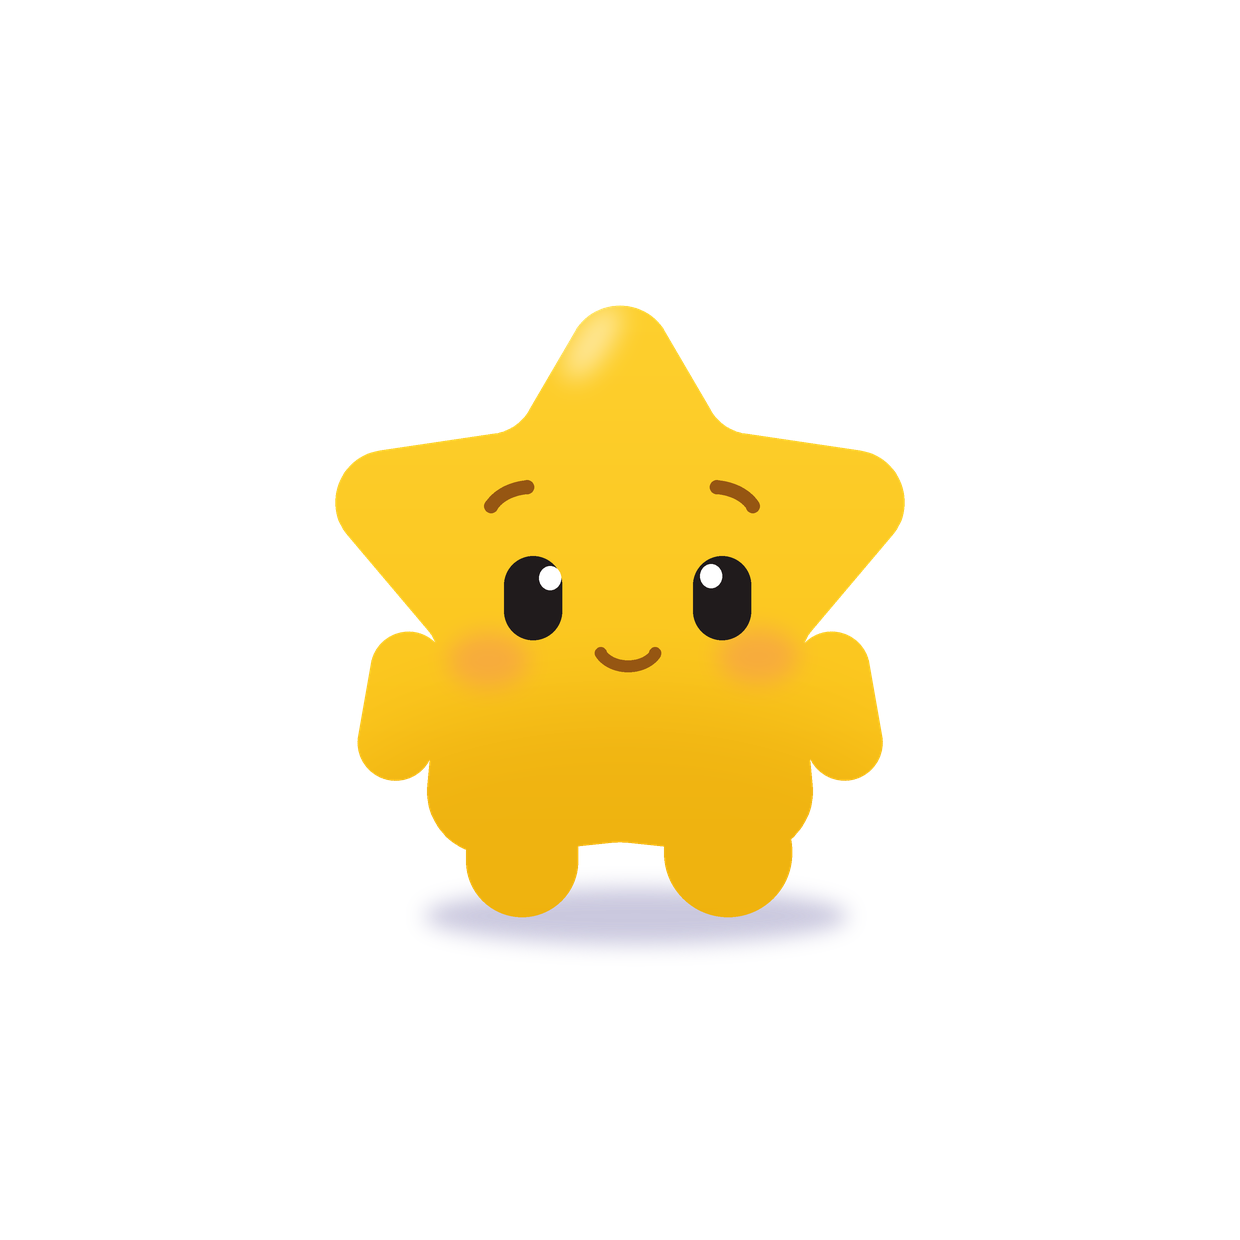
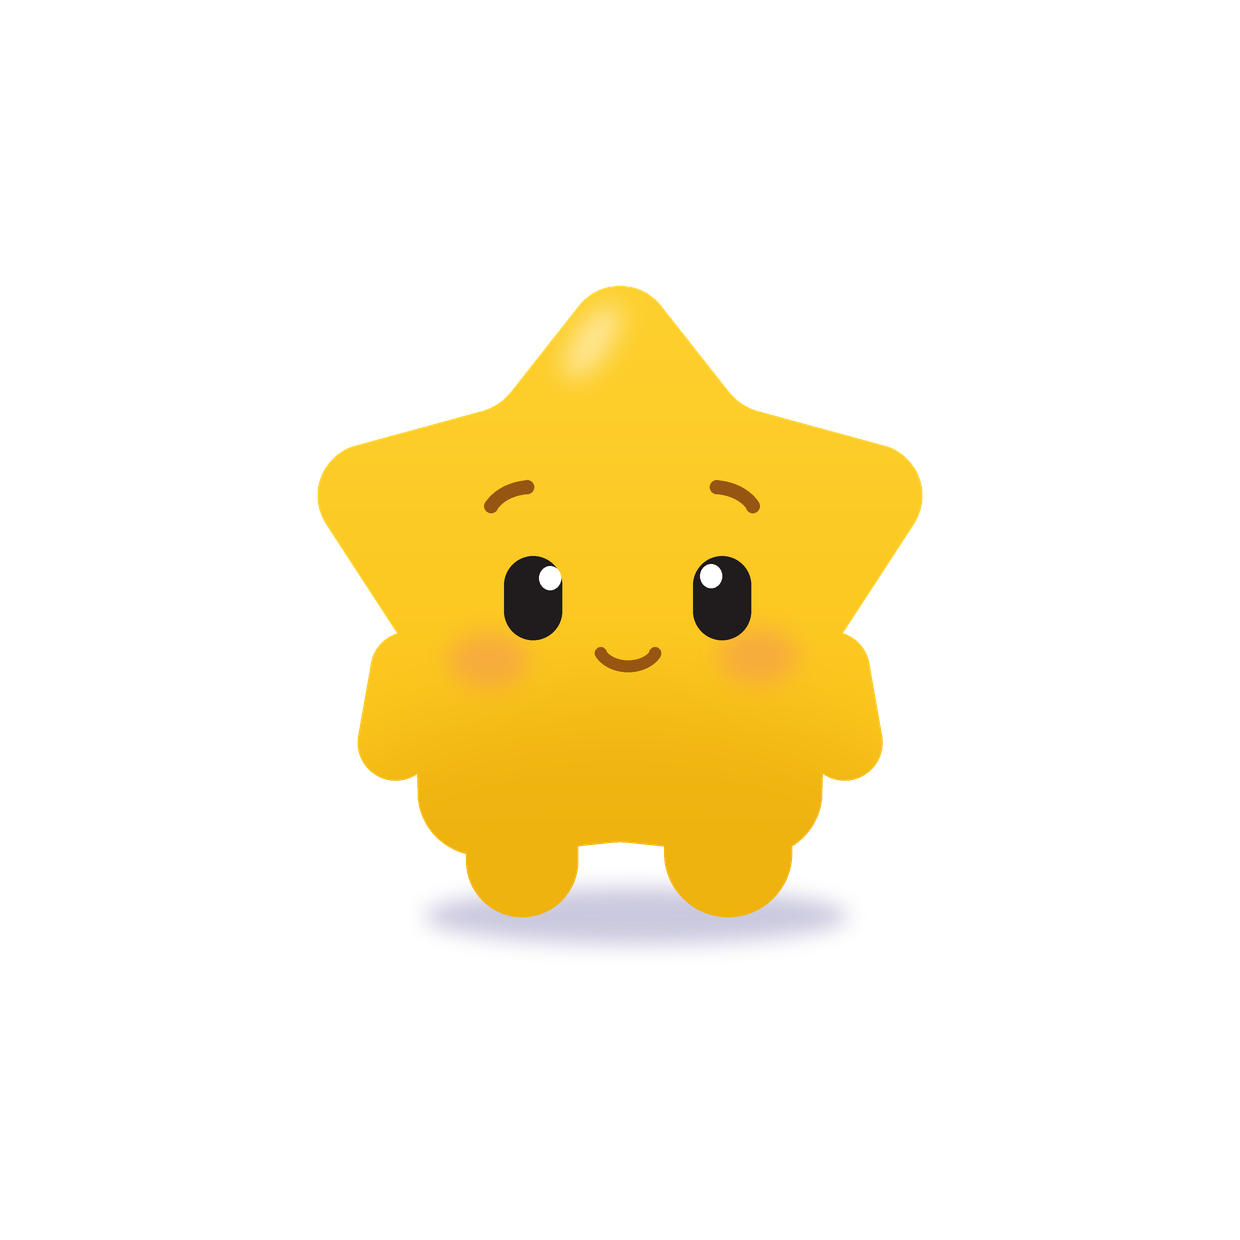
Fatten the star body
The rays were thin at the base, which made the left and right sides look
odd against the arms. Pushed the inner vertices outward (top 170 -> 200,
sides 196 -> 226) and softened the inner corner rounding, so the whole
star reads chunkier. Arm and leg positions are unchanged.

Claude-Session: https://claude.ai/code/session_015M4W5mwAC7ThVprora4HqH

diff --git a/cute_star.py b/cute_star.py
@@ -62,11 +62,11 @@ def star_vertices() -> list[tuple[float, float]]:
         polar(163, 348),   # левая «рука»
     ]
     inner = [
-        polar(53, 170),
-        polar(-24, 196),
+        polar(53, 200),
+        polar(-24, 226),
         polar(-90, 276),   # неглубокая выемка между ног
-        polar(204, 196),
-        polar(127, 170),
+        polar(204, 226),
+        polar(127, 200),
     ]
     pts: list[tuple[float, float]] = []
     for i in range(5):
@@ -212,7 +212,7 @@ def star_mask(size) -> Image.Image:
     pts = star_vertices()
     radii = []
     for i in range(10):
-        radii.append(52 if i % 2 == 0 else 48)   # внешние углы / внутренние
+        radii.append(52 if i % 2 == 0 else 56)   # внешние углы / внутренние
     radii[4] = radii[6] = 64                     # нижние углы — мягкие, но видны
     radii[5] = 52                                # выемка между ног — мягкая
     path = round_polygon(pts, radii)
